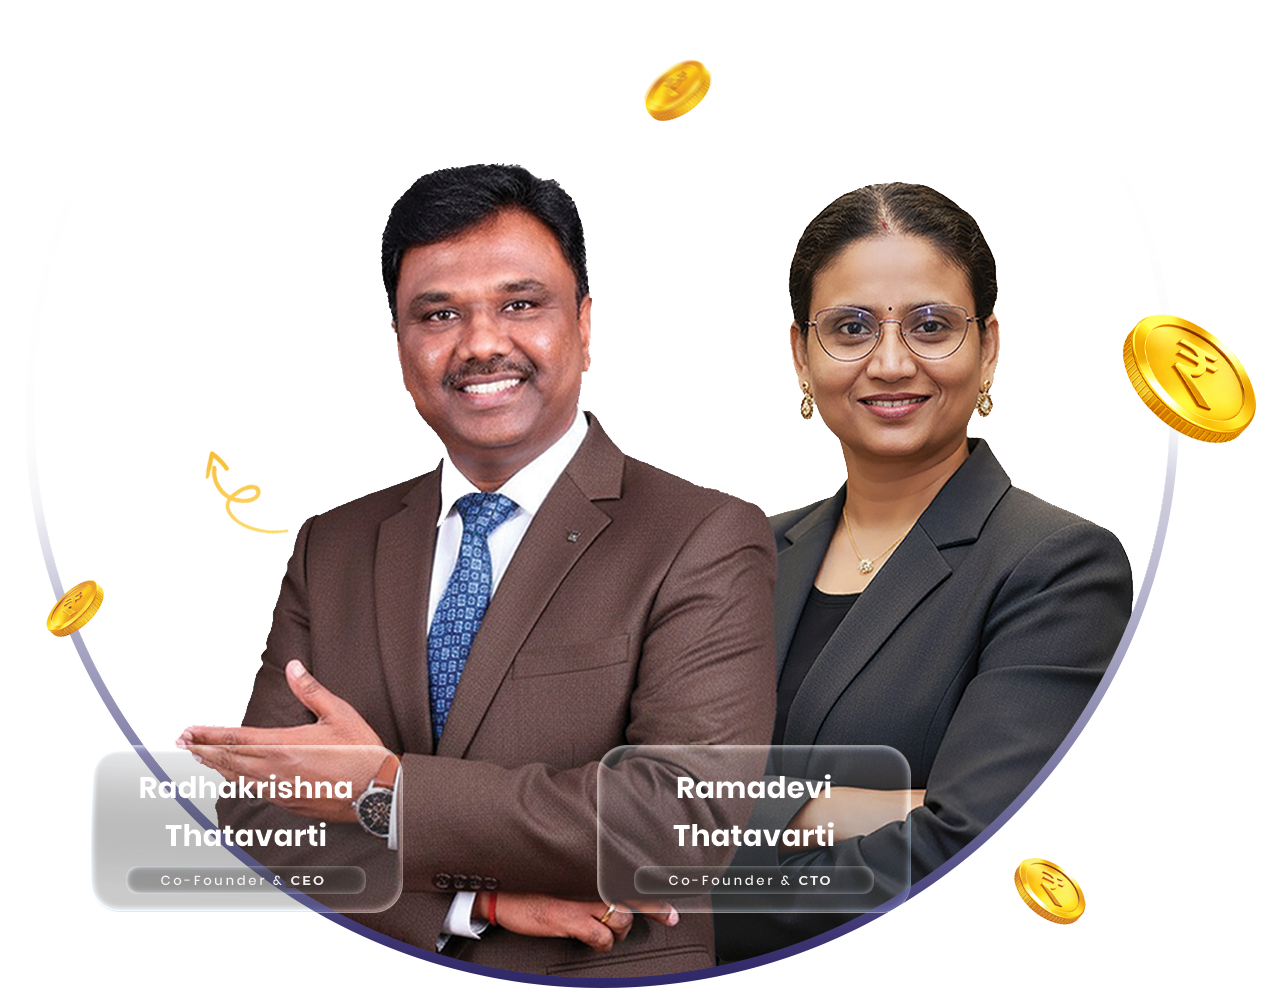
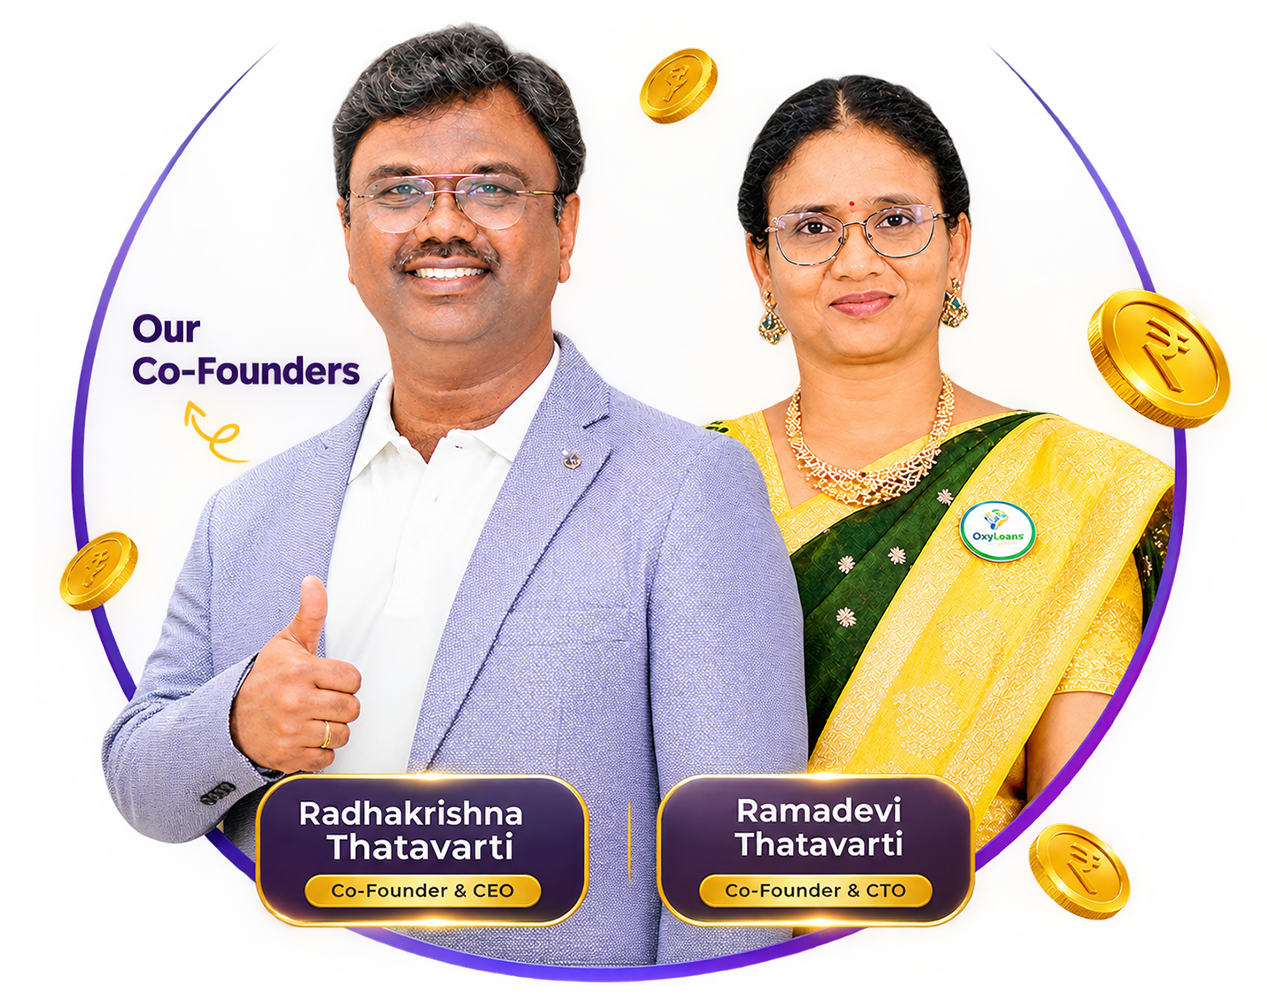
new images updated in landing page

diff --git a/src/physical-gold-admin/pages/DeliveryTeam.tsx b/src/physical-gold-admin/pages/DeliveryTeam.tsx
@@ -5,9 +5,6 @@ import Button from '../components/ui/Button';
 import Modal from '../components/ui/Modal';
 import Input from '../components/ui/Input';
 import Toast, { ToastType } from '../../PhysicalGold/components/Toast';
-import Modal from '../components/ui/Modal';
-import Input from '../components/ui/Input';
-import Toast, { ToastType } from '../../PhysicalGold/components/Toast';
 import {
     DeliveryBoy,
     DeliveryBoyPayload,
@@ -15,19 +12,8 @@ import {
     createAdminDeliveryBoy,
     fetchAdminDeliveryBoys,
     updateAdminDeliveryBoy,
-    updateAdminDeliveryBoy,
     updateAdminDeliveryBoyStatus,
 } from '../services/adminService';
-
-const initialFormData: DeliveryBoyPayload = {
-    firstName: '',
-    lastName: '',
-    phone: '',
-    alternateMobileNumber: '',
-    email: '',
-    vehicleNumber: '',
-    vehicleType: '',
-};
 
 const initialFormData: DeliveryBoyPayload = {
     firstName: '',
@@ -61,10 +47,7 @@ const DeliveryTeam: React.FC = () => {
         try {
             const data = await fetchAdminDeliveryBoys();
             setBoys(data);
-            const data = await fetchAdminDeliveryBoys();
-            setBoys(data);
         } catch (error: any) {
-            setToast({ type: 'error', message: error.message || 'Unable to load the delivery team.' });
             setToast({ type: 'error', message: error.message || 'Unable to load the delivery team.' });
         } finally {
             setLoading(false);
@@ -73,9 +56,6 @@ const DeliveryTeam: React.FC = () => {
 
     useEffect(() => { loadBoys(); }, []);
 
-    // Change Status (PATCH /delivery/{id}/status)
-    const handleStatusChange = async (boy: DeliveryBoy, nextStatus: DeliveryBoyStatus) => {
-        if (boy.status === nextStatus) return;
     // Change Status (PATCH /delivery/{id}/status)
     const handleStatusChange = async (boy: DeliveryBoy, nextStatus: DeliveryBoyStatus) => {
         if (boy.status === nextStatus) return;
@@ -94,21 +74,7 @@ const DeliveryTeam: React.FC = () => {
                 type: 'success',
                 message: `${boy.firstName}'s status set to ${nextStatus} (${description}).`,
             });
-            const res = await updateAdminDeliveryBoyStatus(boy.id, nextStatus);
-            setBoys(current => current.map(item => item.id === boy.id ? { ...item, ...(res || {}), status: nextStatus } : item));
-            
-            const description = nextStatus === 'ACTIVE'
-                ? 'available to take deliveries'
-                : nextStatus === 'INACTIVE'
-                ? 'off duty'
-                : 'suspended';
-
-            setToast({
-                type: 'success',
-                message: `${boy.firstName}'s status set to ${nextStatus} (${description}).`,
-            });
         } catch (error: any) {
-            setToast({ type: 'error', message: error.message || 'Status update failed.' });
             setToast({ type: 'error', message: error.message || 'Status update failed.' });
         } finally {
             setUpdatingId(null);
@@ -210,7 +176,6 @@ const DeliveryTeam: React.FC = () => {
     return (
         <div className="space-y-6">
             {/* Header */}
-            {/* Header */}
             <div className="flex flex-wrap items-center justify-between gap-3">
                 <div>
                     <h1 className="flex items-center gap-2 text-xl font-bold text-slate-800">
@@ -266,7 +231,6 @@ const DeliveryTeam: React.FC = () => {
                 </button>
             </div>
 
-            {/* Delivery personnel list */}
             {/* Delivery personnel list */}
             <section>
                 <div className="flex items-center justify-between mb-3">

diff --git a/src/components/OurTeam.tsx b/src/components/OurTeam.tsx
@@ -2,8 +2,8 @@ import React from "react";
 import { motion, Variants } from "framer-motion";
 import { Linkedin } from "lucide-react";
 
-import Radha from "../assets/radha sir.png";
-import Rama from "../assets/rama mam.png";
+import Radha from "../assets/radha.png";
+import Rama from "../assets/rama.png";
 import Sneha from "../assets/sneha.png";
 import Subash from "../assets/subbu.png";
 import Chakri from "../assets/jags.png";

diff --git a/src/Verified.tsx b/src/Verified.tsx
@@ -1,5 +1,5 @@
 import { useState, type ReactNode } from "react";
-import Radha from "./assets/radha sir.png";
+import Radha from "./assets/radha.png";
 import OxyLogo from "./assets/oxygoldlogo.png";
 /*
  * Replace only the values in this object when the HUID, certified weight,
